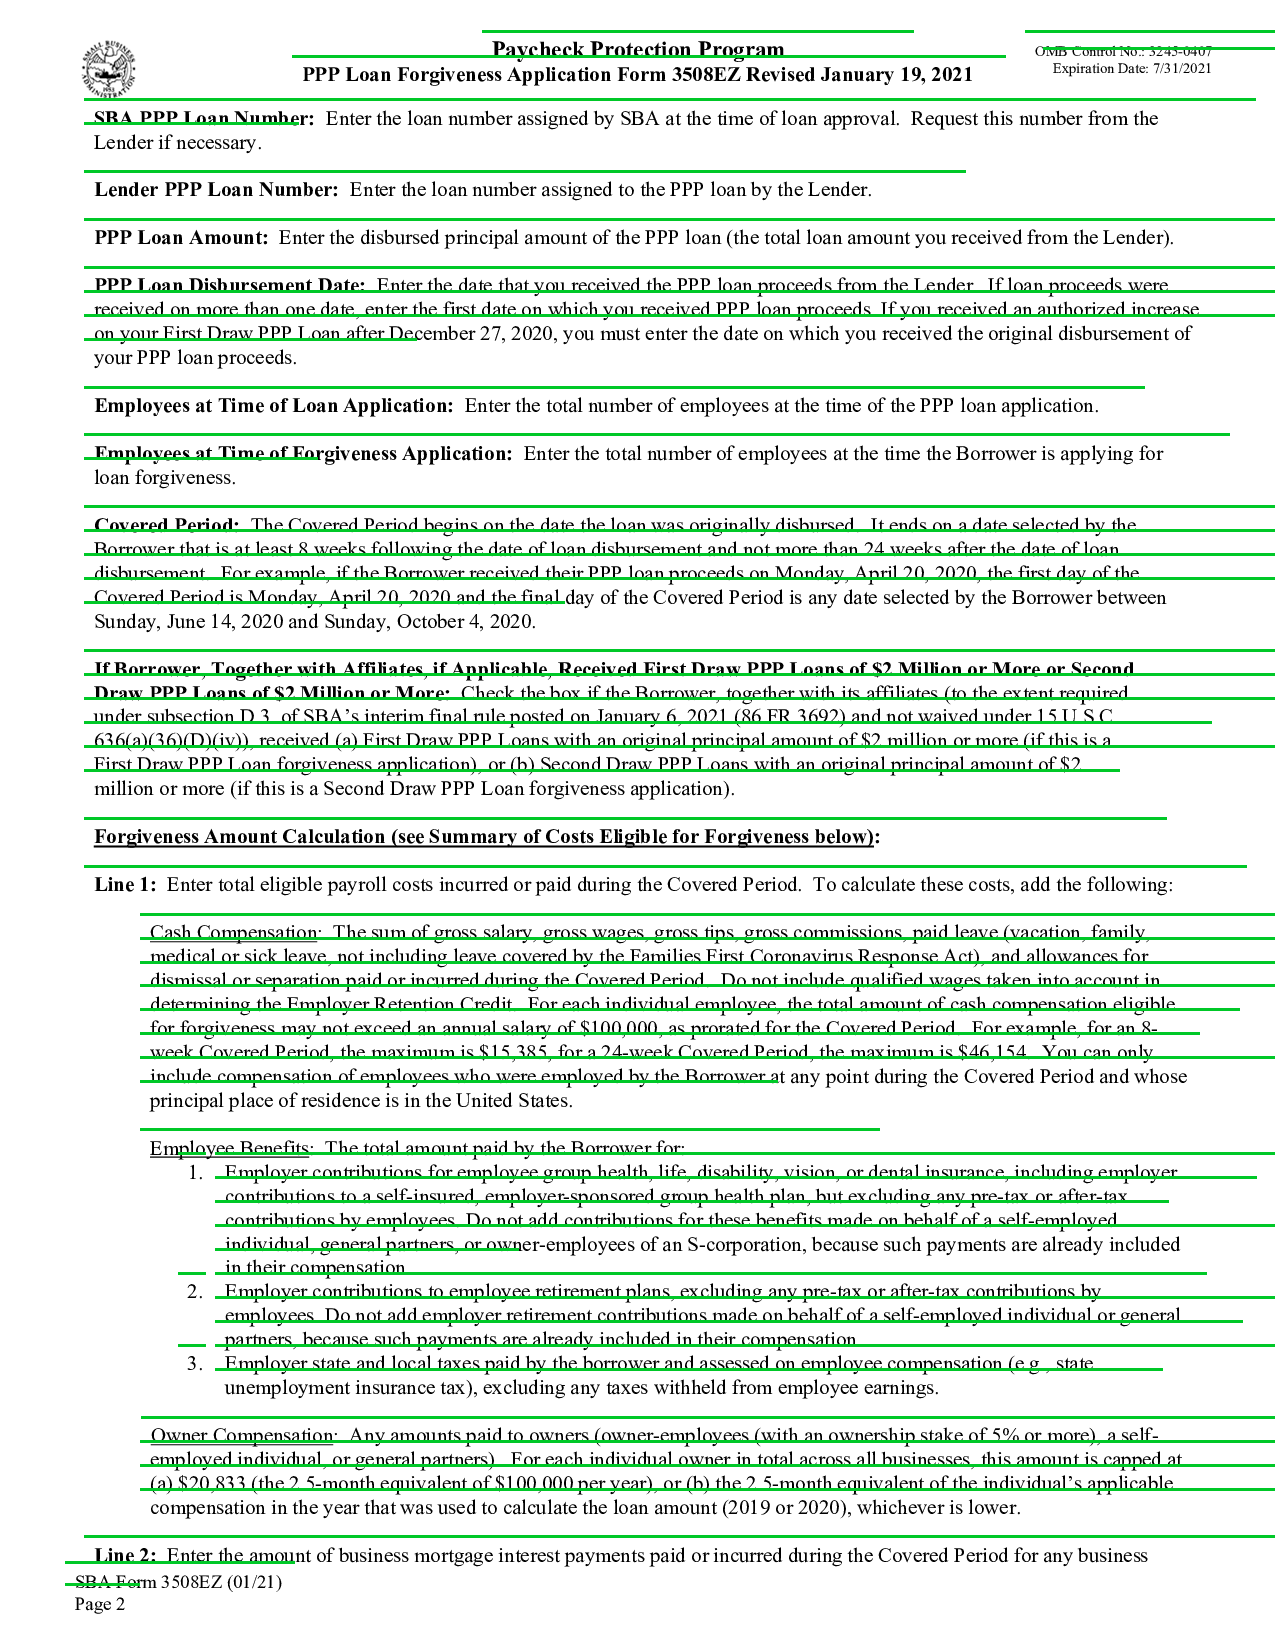
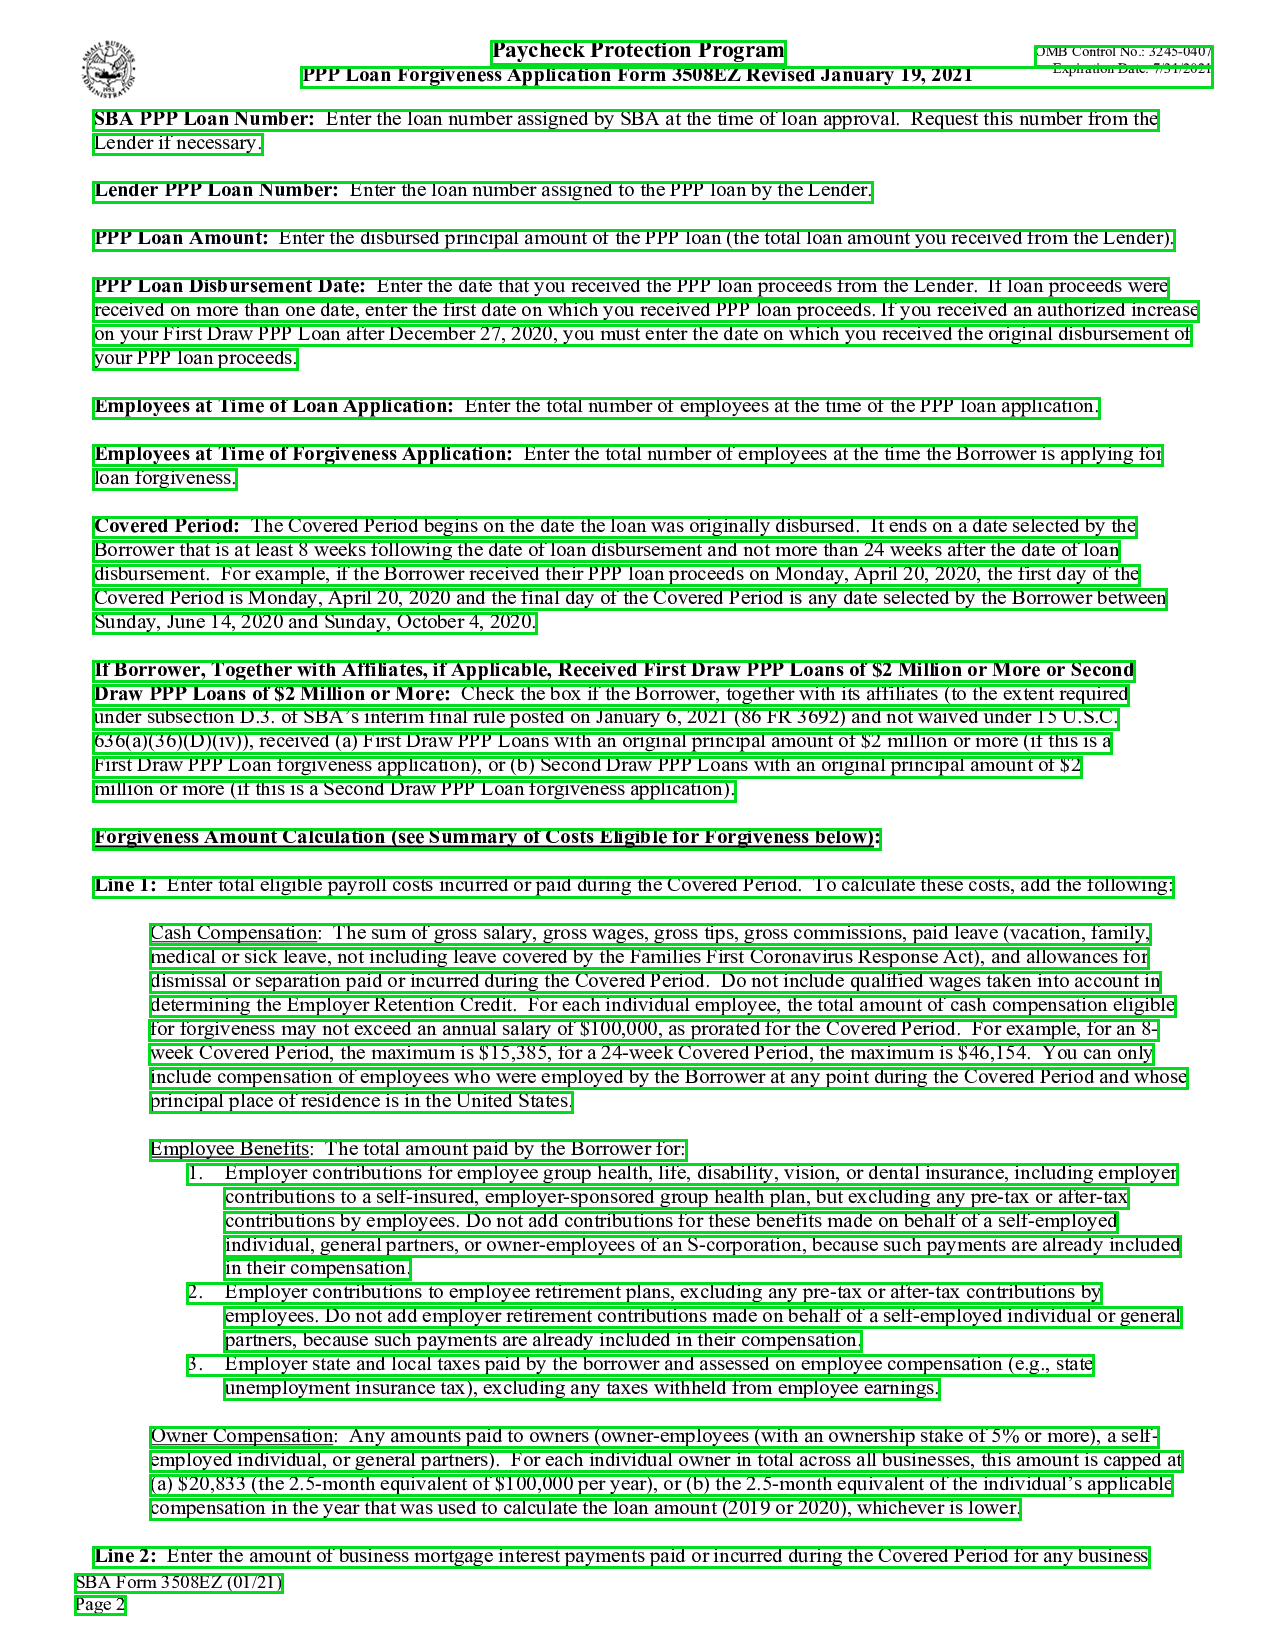
worked with getting better bounding boxes for text

Changed region(s): [[0.0612, 0.0, 1.0, 0.9891]]

diff --git a/pdf_to_image.py b/pdf_to_image.py
@@ -94,22 +94,26 @@ def process_data(fileName, pageCount):
 		pageHeight = pdfInfo['formImage']['Pages'][i]['Height']
 		pageHeights.append(pageHeight)
 
-		for text in pdfInfo['formImage']['Pages'][i]['Texts']:
-			for textInfo in text['R']:
-				h = textInfo['TS'][1] # obtains height of text
-				info = textInfo['T']
-			
+####
+####  CONSIDER CHANGING TUPLES INTO DICTIONARIES FOR EASE OF ORDERING?
+####
+		# text data from pdf2json is jumbled and does not work cohesively
+
+		#for text in pdfInfo['formImage']['Pages'][i]['Texts']:
+			#for textInfo in text['R']:
+				#h = textInfo['TS'][1] # obtains height of text
+				#info = textInfo['T']
 			# replace the most common HTML encodings to make the text more legible
-			info = info.replace("%20", " ")
-			info = info.replace("%3A", ":")
-			info = info.replace("%2C", ",")
-			info = info.replace("%2F", "/")
-			include = string_match(info)
+			#info = info.replace("%20", " ")
+			#info = info.replace("%3A", ":")
+			#info = info.replace("%2C", ",")
+			#info = info.replace("%2F", "/")
+			#include = string_match(info)
 
 			# does the text contain only dashes and/or spaces? if so, don't add
-			if not include:
-				tuple = (i, "text", text['x'], text['y'], text['w'], h, info)
-				list.append(tuple) # what is height here?
+			#if not include:
+				#tuple = (i, "text", text['x'], text['y'], text['w'], h, info)
+				#list.append(tuple) # what is height here?
 
 		for field in pdfInfo['formImage']['Pages'][i]['Fields']:
 			tuple = (i, "field", field['x'], field['y'], field['w'], field['h'])
@@ -121,7 +125,7 @@ def process_data(fileName, pageCount):
 				list.append(tuple)
 
 		i += 1
-	
+
 	return list, pageWidth, pageHeights
 
 
@@ -137,9 +141,10 @@ def print_list(list):
 		counter += 1
 
 
-def draw_bounding_boxes(list, pageWidth, pageHeights):
+def draw_bounding_boxes(list, textData, pageWidth, pageHeights):
 	i = 0
 	dataIndex = 0
+	boxIndex = 0
 	while i < pageCount:
 		imageName = (fileName[:len(fileName)-4] + "/page" + str(i) + ".png")
 		img = img_f.imread(imageName,color=True)
@@ -151,6 +156,8 @@ def draw_bounding_boxes(list, pageWidth, pageHeights):
 		heightMultiplier = imageHeight / pageHeights[i]
 		widthMultiplier = imageWidth / pageWidth
 
+
+		print("drawing field boxes...")
 		currPage = i
 		while currPage == i and dataIndex < len(list):
 			currPage = list[dataIndex][0]
@@ -159,28 +166,47 @@ def draw_bounding_boxes(list, pageWidth, pageHeights):
 				y = list[dataIndex][3] * heightMultiplier
 				w = list[dataIndex][4] * widthMultiplier
 
-				if(list[dataIndex][1] == "text"):
-					img_f.line(img,(int(x),int(y)),(int(x)+int(w),int(y)),color=(0,200,40),thickness=3)
-				else:
-					h = list[dataIndex][5] * heightMultiplier 
+				#if(list[dataIndex][1] == "text"):
+				#	print("encountered text from pdf2json, which is deprecated")
+				#	#img_f.line(img,(int(x),int(y)),(int(x)+int(w),int(y)),color=(0,200,40),thickness=3)
+				#else:
+				h = list[dataIndex][5] * heightMultiplier 
 
-					if(list[dataIndex][1] == "field"):
-						textImage = create_text(w, h)
-						textImage = np.stack((textImage,textImage,textImage),axis=2)
-						# print("adding an image to page " + str(i) + " w/ shape " + str(textImage.shape))
-						# print("y=" + str(int(x)+textImage.shape[0]) + ",=" + str(int(y)+textImage.shape[1]))
-						img[int(y):int(y)+textImage.shape[0], int(x):int(x)+textImage.shape[1]] = textImage
+				#if(list[dataIndex][1] == "field"):
+				#	textImage = create_text(w, h)
+				#	textImage = np.stack((textImage,textImage,textImage),axis=2)
+				#	img[int(y):int(y)+textImage.shape[0], int(x):int(x)+textImage.shape[1]] = textImage
 
-					leftX = int(x)
-					leftY = int(y)
-					rightX = int(x + w)
-					rightY = int(y + h)
+				leftX = int(x)
+				leftY = int(y)
+				rightX = int(x + w)
+				rightY = int(y + h)
 
-					# draw bounding boxes for fields and boxes
-					img_f.rectangle(img,(leftX, leftY),(rightX, rightY),color=(255,0,0),thickness=3)
+				# draw bounding boxes for fields and boxes
+				img_f.rectangle(img,(leftX, leftY),(rightX, rightY),color=(255,0,0),thickness=3)
 			else:
 				break
 			dataIndex += 1
+
+		print("drawing text boxes...")
+		currPage = i
+		while currPage == i and boxIndex < len(textData):
+			# box: (pageNum, x0, x1, text, textHeight, topY)
+			currPage = textData[boxIndex][0]
+			if currPage == i:
+				leftX = int(textData[boxIndex][1] * imageWidth)
+				leftY = int(textData[boxIndex][5] * imageHeight)
+				rightX = int(textData[boxIndex][2] * imageWidth)
+				rightY = int((textData[boxIndex][4] * imageHeight) + leftY)
+
+				print("leftX:" + str(leftX) + " ,leftY:" + str(leftY) + ", rightXL:" 
+					+ str(rightX) + " ,rightY:" + str(rightY))
+
+				img_f.rectangle(img,(leftX, leftY),(rightX, rightY),color=(0,220,30),thickness=3)
+			else:
+				break
+			boxIndex += 1
+
 
 		editedImageName = imageName[:len(imageName)-4] + "_edited.png"
 		print("writing to " + editedImageName + "...")
@@ -190,8 +216,8 @@ def draw_bounding_boxes(list, pageWidth, pageHeights):
 
 def create_text(width, height):
 	generator = synthetic_text.SyntheticText("fonts", ".",line_prob=0.0,line_thickness=70,line_var=0,mean_pad=10,
-	pad=0,gaus_noise=0,gaus_std=0.0000001,blur_std=0.01,hole_prob=0.0, hole_size=400,neighbor_gap_var=0,rot=0.1, 
-	use_warp=0.0,warp_std=[1,1.4], linesAboveAndBelow=False,useBrightness=False)
+		pad=0,gaus_noise=0,gaus_std=0.0000001,blur_std=0.01,hole_prob=0.0, hole_size=400,neighbor_gap_var=0,rot=0.1, 
+		use_warp=0.0,warp_std=[1,1.4], linesAboveAndBelow=False,useBrightness=False)
 
 	#Logic for getting strings to be the correct length - or at least a length that looks good!
 	widthHeightRatio = width / height
@@ -210,18 +236,70 @@ def create_text(width, height):
 def extract_pdf_text(pdfName):
 	print("extracting text...")
 	pdf = pdfplumber.open(pdfName)
+	pageNum = 0
+	boxList = []
 	for page in pdf.pages:
-		text = page.extract_text()
 		wordList = page.extract_words()
-		lineList = []
-		print(text)
-		print("height and width of page is " 
-		+ str(page.height) + " and " + str(page.width))
-		for word in wordList:
-			print(word)
-			print(str(word["x0"]) + "," + str(word["x1"]))
+		#print("wordlist is of type " + str(type(wordList)))
+		pageHeight = page.height
+		pageWidth = page.width
+		#print("height and width of page is " 
+		#+ str(pageHeight) + " and " + str(pageWidth))
+
+		lastWord = wordList[0]
+		box_x0 = lastWord['x0']
+		box_x1 = lastWord['x1']
+		textLine = lastWord['text']
+		lastWordHeight = lastWord['bottom'] - lastWord['top']
+		height = lastWordHeight
+		top = lastWord['top']
+
+		for word in wordList[1:]:
+			lastWordHeight = lastWord['bottom'] - lastWord['top']
+			wordHeight = word['bottom'] - word['top']
+			if(lastWordHeight < wordHeight):
+				height = wordHeight
+
+			#print("the space between '" + word['text'] + "' and '" + lastWord['text'] + "' is "
+			#+ str(word['x0'] - lastWord['x1']))
+			heightsToGapRatio = float(pageHeight) / float(wordHeight) / float(word['x0'] - lastWord['x1'])
 			
-			# use x0, x1 data differences to find the distance between text and group them?
+			#print("\t|___.> page height to wordHeight to wordGap ratio is " +
+			#str(heightsToGapRatio))
+
+			if heightsToGapRatio > 1.5: # ratio maybe should be tweaked to better detect word spacing?
+				#print("  CONTINUE an existing bounding box")
+				# continue box... append word, change x1
+				textLine = textLine + " " + word['text']
+				box_x1 = word['x1']
+			else:
+				#print("  CREATE a new bounding box with '" + textLine + "'")
+				boxInfo = (pageNum, (float(box_x0) / float(pageWidth)), (float(box_x1) / float(pageWidth)), 
+						textLine, (float(height) / float(pageHeight)), (float(top) / float(pageHeight)))
+				#boxInfo = pageNum, x0, x1, text, height, top(y)
+
+				boxList.append(boxInfo)
+				#print("boxList size is now " + str(len(boxList)))
+				# create new bounding box
+				height = word['bottom'] - word['top']
+				top = word['top']
+				textLine = word['text']
+				box_x0 = word['x0']
+				box_x1 = word['x1']
+				
+			lastWord = word
+
+		#print("  CREATE a new bounding box with '" + textLine + "'")
+		#boxInfo = {'x0': float(box_x0) / float(pageWidth), 'x1': float(box_x1) / float(pageWidth), 
+				#'text': textLine, 'height': float(height) / float(pageHeight)}
+		boxInfo = (pageNum, (float(box_x0) / float(pageWidth)), (float(box_x1) / float(pageWidth)), 
+				textLine, (float(height) / float(pageHeight)), (float(top) / float(pageHeight)))
+		print(boxInfo)
+		boxList.append(boxInfo)
+
+		pageNum += 1
+		
+	return  boxList
 
 
 args = read_args()
@@ -234,18 +312,14 @@ else:
 	resolutionSpecified = True
 
 pageWidth = 0.0
-
 pageCount = create_image(fileName, imageRes, resolutionSpecified)
 data = process_data(fileName, pageCount)
 drawData, pageWidth, pageHeights = data
+textData = extract_pdf_text(fileName)
 
 # data is a list of tuples (page, field type, x, y, w, h, pageHeight)
 # with text fields, theres a 7th element - the included text
-# draw_bounding_boxes(drawData, pageWidth, pageHeights)
-
-# using pdfplumber's built in text extraction:
-extract_pdf_text(fileName)
-
+draw_bounding_boxes(drawData, textData, pageWidth, pageHeights)
 
 # current struggles: pdf2json and pdfplumber consider the page in different dimensions
 # how do I connect fields and text?
